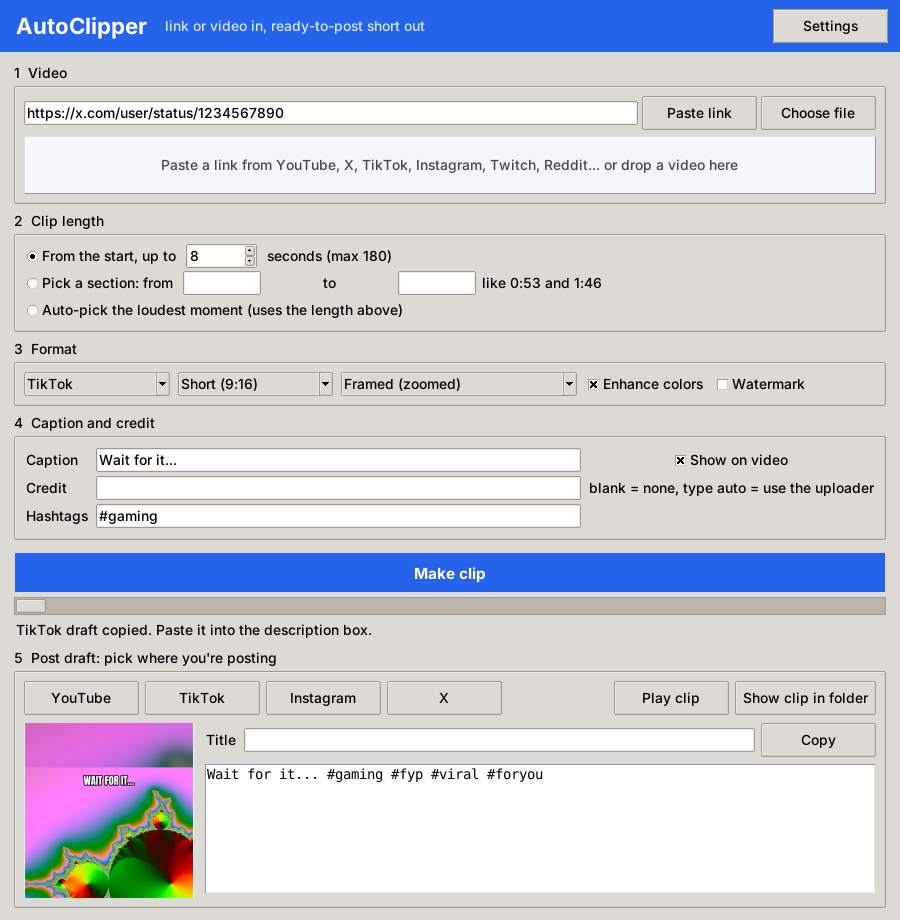
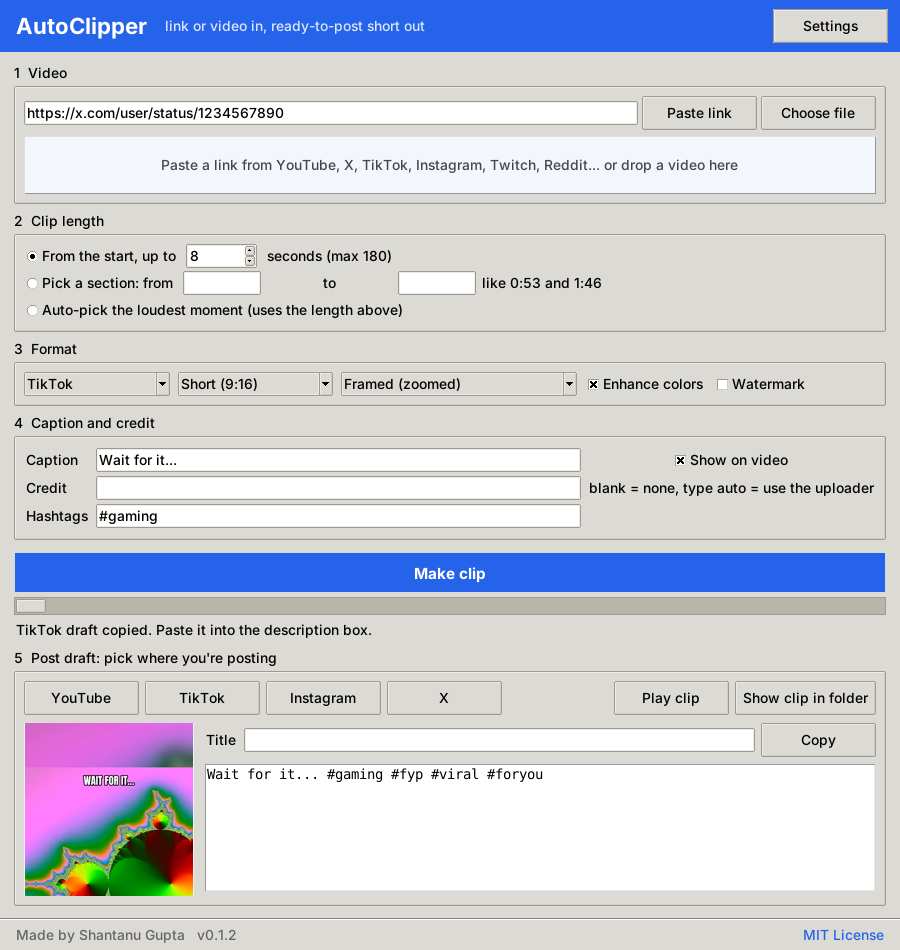
Add in-app footer with author and license; bump to 0.1.2
Claude-Session: https://claude.ai/code/session_012ZVsx2NoTdmpFhTY36xnfD

Changed region(s): [[0.0, 0.0, 0.9956, 1.0], [0.1867, 0.0, 0.4667, 0.0609], [0.84, 0.0, 0.9956, 0.0609]]

diff --git a/autoclipper/gui.py b/autoclipper/gui.py
@@ -100,7 +100,7 @@ class App:
     def __init__(self):
         self.root = TkinterDnD.Tk() if HAVE_DND else tk.Tk()
         self.root.title(f"AutoClipper {__version__}")
-        self.root.geometry("900x920")
+        self.root.geometry("900x950")
         try:
             from .engine import ASSETS
             self._icon = tk.PhotoImage(file=str(ASSETS / "icon.png"))
@@ -124,6 +124,14 @@ class App:
         tk.Label(top, text="AutoClipper", bg=ACCENT, fg="white", font=("", 16, "bold")).pack(side="left", padx=14, pady=10)
         tk.Label(top, text="link or video in, ready-to-post short out", bg=ACCENT, fg="#dbe7ff").pack(side="left")
         ttk.Button(top, text="Settings", command=lambda: SettingsDialog(self)).pack(side="right", padx=12)
+
+        foot = ttk.Frame(root, padding=(14, 4))
+        foot.pack(side="bottom", fill="x")
+        ttk.Separator(root).pack(side="bottom", fill="x")
+        ttk.Label(foot, text=f"Made by Shantanu Gupta   v{__version__}", foreground="#666").pack(side="left")
+        lic = ttk.Label(foot, text="MIT License", foreground="#2563eb", cursor="hand2")
+        lic.pack(side="right")
+        lic.bind("<Button-1>", lambda _e: webbrowser.open("https://github.com/heyshantanugupta/autoclipper/blob/main/LICENSE"))
 
         body = ttk.Frame(root, padding=(14, 8))
         body.pack(fill="both", expand=True)

diff --git a/autoclipper/__init__.py b/autoclipper/__init__.py
@@ -1,2 +1,2 @@
 """AutoClipper: turn any video link or file into a ready-to-post short."""
-__version__ = "0.1.0"
+__version__ = "0.1.2"
